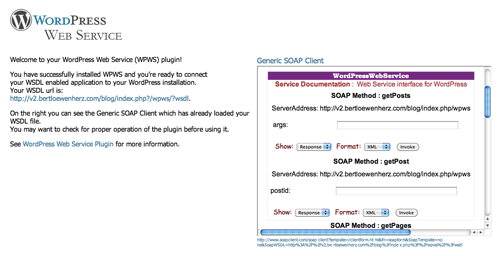
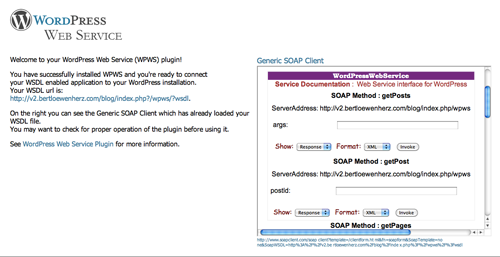
git-svn-id: https://plugins.svn.wordpress.org/wordpress-web-service/trunk@198379 b8457f37-d9ea-0310-8a92-e5e31aec5664

diff --git a/assets/wpws.css b/assets/wpws.css
@@ -1,6 +1,17 @@
 body {
 	font-family: Tahoma, Geneva, sans-serif;
-	padding: 0 1em;
+	padding: 0.3em 1em;
+}
+
+h1 {
+	font-size: .7em;
+	font-weight: 500;
+}
+
+h1 a[target=_blank] {
+	padding-right: 0;
+	background: none;
+	padding-right: 0.4em;
 }
 
 h2 {
@@ -19,6 +30,13 @@ a:active {
 	text-decoration: underline;
 }
 
+a[target=_blank] {
+	padding-right: 18px;
+	background: url(external_link.gif) right no-repeat;
+}
+
+
+
 td {
 	width: 50%;
 	vertical-align: top;
@@ -26,6 +44,10 @@ td {
 
 td + td {
 	padding-left: 1em;
+}
+
+iframe {
+	border: 1px solid #999999;
 }
 
 .explanation {

diff --git a/includes/wpws-index.php b/includes/wpws-index.php
@@ -15,23 +15,25 @@ for($i=0; $i<strlen($soapClientUrl); $i+=$numCharPerBreak) $formattedSoapClientU
 <head>
 <meta http-equiv="Content-Type" content="text/html; charset=UTF-8" />
 <title>WordPress Web Service</title>
-<link rel="stylesheet" type="text/css" href="<?php echo wpws_getPluginUrl(); ?>/wpws-index.css"/>
+<link rel="stylesheet" type="text/css" href="<?php echo wpws_getPluginUrl(); ?>/assets/wpws.css"/>
 </head>
 <body>
-<h1><a href="https://code.google.com/p/wordpress-web-service" target="_blank"><img src="<?php echo wpws_getPluginUrl(); ?>/wpws.png" alt="WordPress Web Service" width="265" height="73" border="0" /></a></h1>
+<h1><a href="https://code.google.com/p/wordpress-web-service" target="_blank"><img src="<?php echo wpws_getPluginUrl(); ?>/assets/wpws.png" alt="WordPress Web Service" width="265" height="73" border="0" /></a> Version <?php echo wpws_getVersion(); ?></h1>
 <table width="100%" border="0" cellspacing="0" cellpadding="0">
 	<tr>
 		<td><p>Welcome to your WordPress Web Service (WPWS) plugin!</p>
 		<?php if(wpws_WSDLcustomized()) { ?>
 			<p><strong>You have successfully installed WPWS and you're ready to connect <br />
-				your WSDL enabled application to your WordPress installation.</strong><br />
-			Your WSDL url is:<br />
-<a href="<?php echo wpws_getWsdlUrl(); ?>" target="_blank"><?php echo wpws_getWsdlUrl(); ?></a>.</p>
-			<p>On the right you can see the Generic SOAP Client which has already loaded your WSDL file.<br />
+			your WSDL enabled application to your WordPress installation.</strong></p>
+			<p>Your WSDL url is:<br />
+	<a href="<?php echo wpws_getWsdlUrl(); ?>" target="_blank"><?php echo wpws_getWsdlUrl(); ?></a>.</p>
+			<p>On the right you can see the Generic SOAP Client which<br />
+				has already loaded your WSDL file.<br />
 				You may want to check for proper operation of the plugin before using it.</p>
 		<?php } else { ?>
 			<p>You have nearly completed the installation of your WPWS plugin. <br />
-			<strong>Unfortunately your WSDL file could not be created automatically because of missing write rights.</strong><br />
+			<strong>Unfortunately your WSDL file could not be created <br />
+			automatically because of missing write rights.</strong><br />
 			But that's no problem! Follow the 5 steps to create one manually:</p>
 			<ol>
 				<li>Use a FTP client to connect to your WordPress installation</li>

diff --git a/includes/wpws-soap.php b/includes/wpws-soap.php
@@ -1,7 +1,6 @@
 <?php
 
-require_once(dirname(__FILE__) . "/valueObjects.php");
-require_once(dirname(__FILE__) . "/converters.php");
+require_once(dirname(__FILE__) . "/wpws-valueobjects.php");
 
 /**
  * This class is the web service itself.
@@ -22,7 +21,7 @@ class wp_WebService {
 		$posts = get_posts($args);
 		$wpws_posts = array();
 		foreach($posts as $post) {
-			$wpws_posts[] = wpws_convert_Post($post);
+			$wpws_posts[] = wpws_Post::convert($post);
 		}
 		return $wpws_posts;
 	 }
@@ -33,7 +32,7 @@ class wp_WebService {
 	 */
 	function getPost($postId) {
 		$post = get_post($postId, OBJECT);
-		return wpws_convert_Post($post);
+		return wpws_Post::convert($post);
 	 }
 	 
 	 
@@ -49,7 +48,7 @@ class wp_WebService {
 		$pages = get_pages($args);
 		$wpws_pages = array();
 		foreach($pages as $page) {
-			$wpws_pages[] = wpws_convert_Page($page);
+			$wpws_pages[] = wpws_Page::convert($page);
 		}
 		return $wpws_pages;
 	 }
@@ -60,14 +59,20 @@ class wp_WebService {
 	 */
 	function getPage($pageId) {
 		$page = get_page($pageId, OBJECT);
-		return wpws_convert_Page($page);
+		return wpws_Page::convert($page);
 	 }
 	 
 	 
 	 
 	/*** GALLERIES ***/
 	
-	
+	/**
+	 * Returns all galleries (= pages treated as galleries).
+	 * Each gallery has the attribute subGalleries in which an array of all child galleries is stored.
+	 * Note that to minimize network traffic only the meta data and the main image are provided while
+	 * the images array is always empty.
+	 * @return wpws_Gallery[]
+	 */
 	function getGalleryHierarchy($args = null) {
 		// Note that the user provided $args is the 2nd operator which enforced
 		// the parameters defined in the array
@@ -220,11 +225,11 @@ class wp_WebService {
 			// and pass the url to the resize script
 			$url = explode("wp-content/uploads", strval($xml_image["src"])); // http://abc.de/blog/, 2010/xyz/img-120x120.jpg
 			$url = preg_replace("~-\d+x\d+~", "", $url[1], 1); // 2010/xyz/img.jpg
-			$resizeUrl = wpws_getPluginUrl() . "/wp-content/plugins/wpws/resizeImage.php?src=" . $url . "&width=800";
+			$resizeUrl = wpws_getPluginUrl . "/includes/resize_image.php?src=" . $url . "";
 
 			$wpws_images[] = new wpws_Image(
-								$resizeUrl,
 								strval($xml_image["src"]),
+								$resizeUrl,
 								strval($xml_image["title"]),
 								strval($xml_image["alt"]));
 		}

diff --git a/includes/wpws-valueobjects.php b/includes/wpws-valueobjects.php
@@ -1,5 +1,6 @@
 <?php
 
+/* SOAP compatible Post definition */
 class wpws_Post {
 	public $id;
 	public $author;
@@ -58,11 +59,58 @@ class wpws_Post {
 		$this->commentCount = $commentCount;
 		$this->filter = $filter;
 	}
+	
+	/**
+	 * Converts a post retrieved trough the WordPress method get_post
+	 * to a wpws_Post object.
+	 * @return wpws_Post
+	 */
+	function convert($post) {
+		if(!$post) return null;
+		else {
+			$wpws_post = new wpws_Post(
+					intval($post->ID),
+					$post->post_author,
+					$post->post_date,
+					$post->post_date_gmt,
+					$post->post_content,
+					$post->post_title,
+					$post->post_excerpt,
+					$post->post_status,
+					$post->comment_status,
+					$post->ping_status,
+					$post->post_password,
+					$post->post_name,
+					$post->to_ping,
+					$post->pinged,
+					$post->post_modified,
+					$post->post_modified_gmt,
+					$post->post_content_filtered,
+					intval($post->post_parent),
+					$post->guid,
+					intval($post->menu_order),
+					$post->post_type,
+					$post->post_mime_type,
+					$post->comment_count,
+					$post->filter);
+			return $wpws_post;
+		}
+	}
 }
 
-// identically to wpws_Page
-class wpws_Page extends wpws_Post { }
+/* SOAP compatible Page definition */
+class wpws_Page extends wpws_Post {
+	/**
+	 * Converts a page retrieved trough the WordPress method get_page
+	 * to a wpws_Page object.
+	 * @return wpws_Page
+	 */
+	function convert($page) {
+		return parent::convert($page);
+	}
+}
 
+/* SOAP compatible Gallery definition */
 class wpws_Gallery {
 	public $id;
 	public $parentId;
@@ -83,15 +131,16 @@ class wpws_Gallery {
 	}
 }
 
+/* SOAP compatible Image definition */
 class wpws_Image {
 	public $url;
-	public $thumbUrl;
+	public $resizableUrl;
 	public $title;
 	public $description;
 	
-	function __construct($url, $thumbUrl, $title, $description) {
+	function __construct($url, $resizableUrl, $title, $description) {
 		$this->url = $url;
-		$this->thumbUrl = $thumbUrl;
+		$this->resizableUrl = $thumbUrl;
 		$this->title = $title;
 		$this->description = $description;
 	}

diff --git a/includes/wpws-access.php b/includes/wpws-access.php
@@ -1,9 +1,23 @@
 <?php
 
-define("WPWS_WSDL_TEMPLATE", dirname(__FILE__) . "/wpws.template.wsdl");
-define("WPWS_WSDL", dirname(__FILE__) . "/wpws.wsdl");
+define("WPWS_PLUGIN_NAME", "wordpress-web-service");
+define("WPWS_ENTRY_FILE", dirname(__FILE__) . "/../" . WPWS_PLUGIN_NAME . ".php");
+define("WPWS_INDEX_FILE", dirname(__FILE__) . "/wpws-index.php");
+
+define("WPWS_WSDL_TEMPLATE", dirname(__FILE__) . "/../wpws.template.wsdl");
+define("WPWS_WSDL", dirname(__FILE__) . "/../wpws.wsdl");
+define("WPWS_SOAP_SERVER_FILE", dirname(__FILE__) . "/wpws-soap.php");
+define("WPWS_SOAP_SERVER_CLASS", "wp_WebService");
+
 define("WPWS_BLOG_URL", "%{BLOG_URL}");
-define("WPWS_INDEX", dirname(__FILE__) . "/wpws-index.php");
+
+
+
+function wpws_getVersion() {
+	$entry_file = file_get_contents(WPWS_ENTRY_FILE);
+	$version = preg_replace("~.*Version:\W*([a-zA-Z0-9\._]*).*~sm", "\\1", $entry_file);
+	return $version;
+}
 
 function wpws_WSDLcustomized() {
 	if(file_exists(WPWS_WSDL)) {
@@ -35,7 +49,7 @@ function wpws_getWsdlUrl() {
 }
 
 function wpws_getPluginUrl() {
-	return wpws_getBlogUrl() . "/wp-content/plugins/wordpress-web-service";
+	return wpws_getBlogUrl() . "/wp-content/plugins/" . WPWS_PLUGIN_NAME;
 }
 
 function wpws_getBaseDir() {
